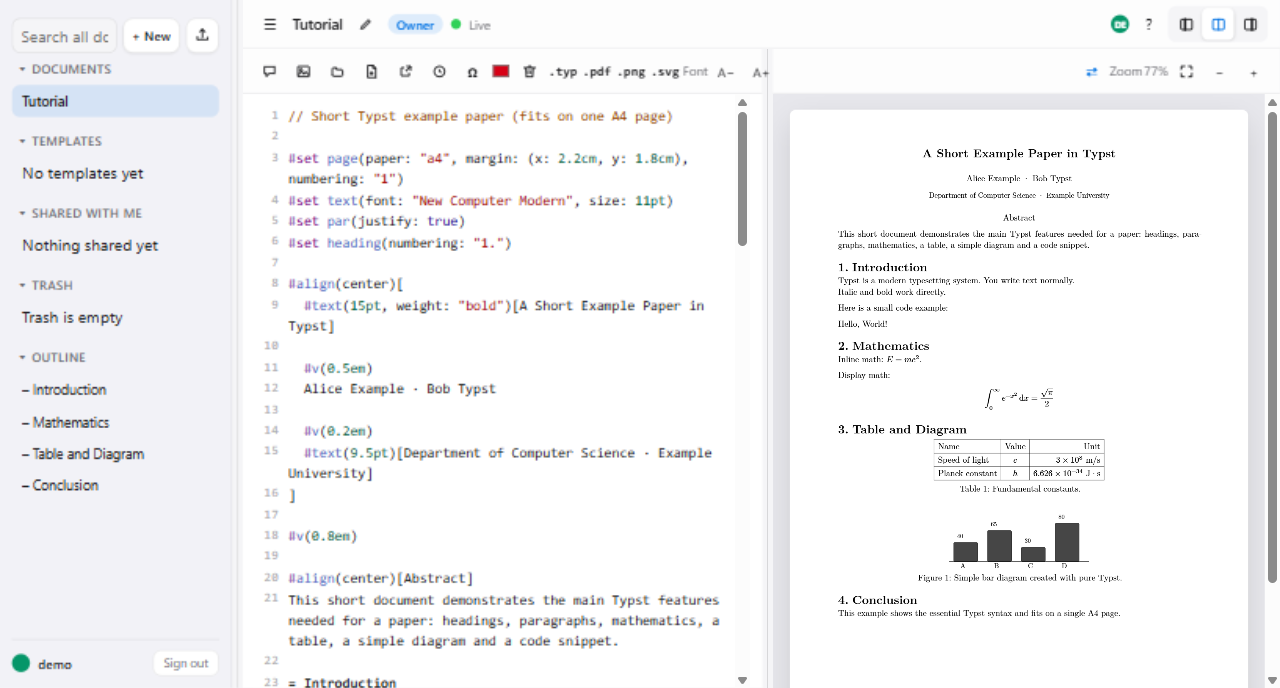
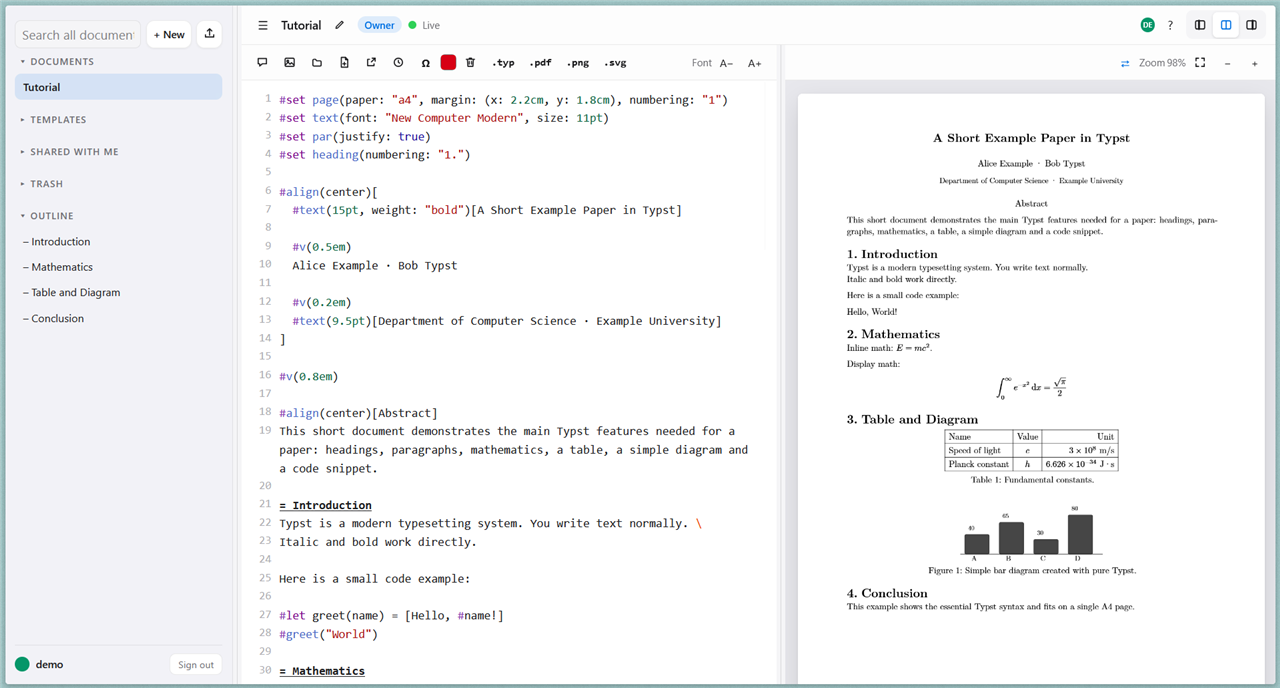
README shorter in llm-sdk style; sharper screenshot from high-DPI capture

diff --git a/README.md b/README.md
@@ -10,20 +10,18 @@ One process, clean API, boring on purpose. FastAPI serves the API, Yjs syncs the
 
 ## ✨ Features
 
-- Live PDF preview next to the editor, compiled in the browser via Typst WASM
+- Live PDF preview, compiled in the browser via Typst WASM
 - Realtime collaboration with presence over a cookie-only WebSocket
-- Owner, editor, and reviewer roles with share links and doc invites
+- Owner/editor/reviewer roles with share links and doc invites
 - Comment threads with anchors, @-mentions, replies, resolve
-- Outline, symbol picker, autocomplete + hover docs, find/replace
-- File uploads for `#image` and `#include`, 10 MB per file and 200 per doc
-- Templates saved per account, organized in folders, reused via `#include`
-- History with snapshots, diff view, and one-click restore
-- Folders, trash, duplicate, and global search across all docs
-- Export as `.typ`, PDF, SVG, first-page PNG, or all own docs as one `.zip`
-- Autosave (2.5 s debounce) + 24 h local stash, offline app shell via service worker
-- Editor font (10–24 px) + preview zoom (30–200 %) settings, avatars
-- Per-user quotas and per-endpoint rate limits enforced server-side
-- Self-hostable single container with SQLite, reverse-proxy ready
+- Outline, symbol picker, autocomplete, find/replace
+- File uploads for `#image` and `#include` (10 MB per file, 200 per doc)
+- Templates per account with folders, reused via `#include`
+- History with snapshots, diff view, one-click restore
+- Folders, trash, duplicate, global search
+- Export as `.typ`, PDF, SVG, first-page PNG, or all docs as one `.zip`
+- Autosave + 24 h local stash, offline app shell, font/zoom settings
+- Per-user quotas and per-endpoint rate limits, enforced server-side
 
 ## 🚀 Get Started
 
@@ -31,7 +29,7 @@ With Docker (under 5 minutes):
 
 ```bash
 cp .env.example .env
-mkdir -p data # Linux: chown 999:999 data; Windows: skip (entrypoint fixes a root-owned mount on first root start)
+mkdir -p data # Linux: chown 999:999 data
 docker compose up --build
 ```
 
@@ -50,45 +48,21 @@ Registration defaults to `invite-only`. The first account registers freely (boot
 
 ## ⚙ Configuration
 
-File plus env overrides; env wins. Defaults live in `backend/config.py`.
+File plus env overrides; env wins. Full list with defaults in `.env.example` (or `config.example.toml`); parsed and validated in `backend/config.py`.
 
 | ENV | Default | Notes |
 | --- | --- | --- |
-| `HOST` | `127.0.0.1` | Bare-metal bind address; in the container it is fixed to `0.0.0.0`. |
-| `PORT` | `8978` | HTTP port; in the container it is fixed to `8978`. |
-| `DATA_DIR` | `./data` | SQLite plus uploads; in the container it is fixed to `/app/data`. |
-| `COMPOSE_DATA_PATH` | `./data` | Compose-only host path for the volume, e.g. `/srv/typst-data`. |
-| `TRUST_PROXY` | `false` | Required `true` behind Caddy or nginx, else scheme and cookies break. |
-| `COOKIE_SECURE` | `auto` | `auto`, `true`, or `false`; keep `auto` behind a proxy. |
-| `REGISTRATION` | `invite-only` | `closed`, `invite-only`, or `open`; `open` for local tests only. |
-| `REGISTRATION_INVITE_TOKEN` | empty | Invite code for accounts after the first; set via `openssl rand -hex 32`. |
-| `SESSION_SECONDS` | `1209600` | Session lifetime in seconds (14 days). |
-| `MAX_DOCS_PER_USER` | `100` | Max docs per user. |
-| `MAX_BYTES_PER_USER` | `524288000` | Max storage bytes per user (500 MB). |
-| `MAX_FILES_PER_DOC` | `200` | Max files per doc. |
-| `RATE_LOGIN_PER_MIN` | `10` | Login attempts per minute. |
-| `RATE_REGISTER_PER_HOUR` | `20` | Registrations per hour. |
-| `RATE_JOIN_PER_MIN` | `30` | Invite redemptions per minute. |
-| `RATE_SEARCH_PER_MIN` | `60` | Searches per minute. |
-| `RATE_FILES_PER_MIN` | `20` | File up- and downloads per minute. |
-| `RATE_FILES_LIST_PER_MIN` | `120` | File list refreshes per minute. |
-| `RATE_SAVE_PER_MIN` | `30` | Doc saves per minute. |
-| `RATE_COMMENTS_PER_MIN` | `30` | Comment writes per minute. |
-| `RATE_EXPORT_PER_MIN` | `5` | ZIP exports per minute. |
-| `RATE_PW_PER_MIN` | `10` | Password changes per minute. |
-| `RATE_INVITE_PER_MIN` | `10` | Invite creations per minute. |
-| `RATE_SHARE_PER_MIN` | `10` | Share changes per minute. |
-| `RATE_SNAPSHOTS_PER_MIN` | `60` | Snapshot reads and writes per minute. |
-| `RATE_CREATE_PER_MIN` | `20` | Doc creations per minute. |
-| `RATE_DUPLICATE_PER_MIN` | `10` | Doc duplications per minute. |
-| `RATE_AVATAR_PER_MIN` | `10` | Avatar uploads per minute. |
-| `RATE_FOLDERS_PER_MIN` | `20` | Folder operations per minute. |
+| `DATA_DIR` | `./data` | SQLite plus uploads; `/app/data` in the container. Needs restart when changed. |
+| `COMPOSE_DATA_PATH` | `./data` | Compose-only host path, e.g. `/srv/typst-data`. |
+| `TRUST_PROXY` | `false` | Required `true` behind a proxy, else cookies break. Set only in `.env`. |
+| `REGISTRATION` | `invite-only` | `closed`, `invite-only`, or `open`. |
+| `REGISTRATION_INVITE_TOKEN` | empty | `openssl rand -hex 32`. |
+| `SESSION_SECONDS` | `1209600` | 14 days. |
+| `MAX_DOCS_PER_USER` | `100` | Plus 500 MB and 200 files per doc (see `backend/constants.py`). |
 
 Never commit local `config.toml` or `.env`; only the `.example` files are tracked.
 
-## 📡 Usage
-
-Health check:
+## 📡 API
 
 ```bash
 curl -s http://127.0.0.1:8978/healthz
@@ -96,46 +70,31 @@ curl -s http://127.0.0.1:8978/healthz
 
 Live sync runs over `WS /ws/{doc_id}`. Auth is cookie-only (`typst_session`, HttpOnly, SameSite=lax): API clients must store cookies, there is no token in body or URL.
 
-## 💾 Data, Backup & Security
-
-Data lives in `DATA_DIR` (`/app/data` in the container, host path via `COMPOSE_DATA_PATH`). It holds `app.db` (SQLite with WAL), `files/`, `backup/`, and `exports/`.
-
-Back up with:
+## 💾 Backup
 
 ```bash
 python scripts/backup.py --include-files
 ```
 
-This writes `DATA_DIR/backup/app-YYYYMMDD-HHMMSS.db` via `VACUUM INTO` plus a `files/` archive, keeping the newest 7. Run it hourly via cron or `docker compose exec app python scripts/backup.py --include-files`. Tune with `--keep N`, `--no-include-files` (DB only), or preview with `--dry-run`.
+Writes `DATA_DIR/backup/app-YYYYMMDD-HHMMSS.db` via `VACUUM INTO` plus a `files/` archive, keeps the newest 7 (`--keep N`, `--dry-run`). Run hourly via cron or `docker compose exec app python scripts/backup.py --include-files`. Backups are unencrypted: `gpg -c DATA_DIR/backup/app-*.db`.
 
-Restore: stop the server, copy the backup over `app.db`, delete `app.db-wal` and `app.db-shm`, unpack files with `tar -xzf DATA_DIR/backup/app-*-files.tar.gz -C DATA_DIR/`, then start. Never copy the live DB; WAL would be inconsistent. Verify with `PRAGMA integrity_check;` afterwards.
+Restore: stop the server, copy the backup over `app.db`, delete `app.db-wal`/`app.db-shm`, unpack files, start. Verify with `PRAGMA integrity_check;`.
 
-Backups are unencrypted. Encrypt them: `gpg -c DATA_DIR/backup/app-*.db`.
+## 🔌 Reverse proxy
 
-Behind a reverse proxy (nginx, Caddy), `TRUST_PROXY=true` is required; never expose the app directly, TLS is your responsibility. Minimal nginx example:
+`TRUST_PROXY=true` is required; never expose the app directly, TLS is your responsibility. Caddy:
 
-```nginx
-server {
-  listen 443 ssl;
-  server_name editor.example.com;
-  client_max_body_size 12M; # 10 MB upload + ZIP overhead
-  location / {
-    proxy_pass http://127.0.0.1:8978;
-    proxy_http_version 1.1;
-    proxy_set_header Host $host; # WS origin check compares Origin to Host
-    proxy_set_header Upgrade $http_upgrade;
-    proxy_set_header Connection "upgrade"; # WS needs this
-    proxy_set_header X-Forwarded-Proto $scheme;
-    proxy_set_header X-Forwarded-For $remote_addr; # overwrite, never append: else clients can spoof IPs past rate limits
-    proxy_read_timeout 86400; # idle WebSockets stay open (default 60s kills them)
-    proxy_buffering off; # live WS traffic, no buffering
-  }
+```
+typst.example.com {
+    reverse_proxy 127.0.0.1:8978
 }
 ```
 
-Always run one worker (`--workers 1`) and one replica: sync rooms live in process memory and split across workers. Minimum 512 MB RAM (`mem_limit: 512m`), 1 GB recommended. There is no public demo instance; self-host.
+nginx needs the same headers (`Host`, `Upgrade`, `X-Forwarded-Proto`, overwrite `X-Forwarded-For`, `proxy_read_timeout 86400`, `proxy_buffering off`, `client_max_body_size 12M`).
 
-Limits, openly: docs max 200_000 bytes each; uploads max 10 MB per file; history max 50 snapshots per doc with auto-snapshot at most every 15 min; doc invites valid 7 days and visible only once at creation; search needs min 2 chars and returns max 20 hits; quotas are 100 docs and 500 MB per user with 200 files per doc; rate limits per the table above.
+Always one worker (`--workers 1`) and one replica: rooms live in process memory. 512 MB RAM minimum, 1 GB recommended. No public demo instance; self-host.
+
+Limits, openly: docs 200 KB each; uploads 10 MB per file; 50 snapshots per doc, auto at most every 15 min; doc invites valid 7 days, shown once; search needs 2 chars, max 20 hits; quotas 100 docs and 500 MB per user, 200 files per doc; reads share the `files_list` bucket (120/min), writes have their own.
 
 ### 🔒 Security Contact
 
@@ -143,20 +102,16 @@ Report vulnerabilities via GitHub Private Vulnerability Reporting.
 Do not open public issues for security problems.
 Allow time for a fix before any disclosure.
 
-Unshare removes the user and wipes all pending invite links for the doc (they carry no username, so per-user revoke is impossible). Downgrading editor to reviewer wipes editor links too. Preview needs internet on first load (cdnjs/esm.sh/jsdelivr for pdf.js/Yjs/typst.ts); afterwards the service worker serves the app shell offline, but saving and syncing need network — offline edits survive at most 24h in the local stash (same-origin localStorage, user-owned drafts only).
-
-CSP intentionally allows `unsafe-inline`, `unsafe-eval`, `wasm-unsafe-eval` plus pinned cdnjs/esm.sh/jsdelivr origins: CodeMirror + Typst WASM cannot run without them. Mitigations: user content via `textContent` only, same-origin API/WS with Origin checks, backups outside web root.
-
-Backups are unencrypted. Encrypt them: `gpg -c DATA_DIR/backup/app-*.db` or `age -r <recipient> <file>`. Use `chmod 600` on shared hosts.
+Unshare wipes all pending invite links for the doc (they carry no username). Preview needs internet on first load (CDN: cdnjs/esm.sh/jsdelivr); afterwards the shell works offline, saving needs network (24 h local stash). CSP allows `unsafe-inline`/`unsafe-eval`/`wasm-unsafe-eval` plus pinned CDN origins — Typst WASM cannot run without them; user content is rendered via `textContent` only.
 
 ### 🛠 Troubleshooting
 
 - First load needs internet (CDN), then shell offline. Check `#cdnLine` / console.
-- Single worker only (`--workers 1`, one replica). Multi-worker exits on purpose.
-- Behind proxy set `TRUST_PROXY=true` in `.env`, else cookies/rate-limit break. Overwrite `X-Forwarded-For`, never append.
+- Single worker only (`--workers 1`, also as CLI flag). Multi-worker exits on purpose.
+- Behind proxy set `TRUST_PROXY=true`, overwrite `X-Forwarded-For`, never append.
 - Port `8978` loopback-only; TLS via proxy.
-- `DATA_DIR` change needs restart. Root-owned volume: entrypoint fixes top-level, retries recursive; else `chown -R 999:999 data`.
-- Many read `GET /api/*` share the `files_list` bucket (120/min) – search/snapshots/export have their own; 429 means slow down polling.
+- Root-owned volume: `chown -R 999:999 data`.
+- `429` on reads: the shared `files_list` bucket (120/min) — slow down polling.
 
 ### 📦 Changelog
 
@@ -170,19 +125,4 @@ If this saves you time, please ⭐ the repo! Thanks! ♥
 
 ## 📜 License
 
-Apache-2.0, see `LICENSE`.
-
-| Library | Version | License | Upstream |
-| --- | --- | --- | --- |
-| CodeMirror | 6.0.2 | MIT | https://www.npmjs.com/package/codemirror |
-| @codemirror/autocomplete | 6.20.3 | MIT | https://www.npmjs.com/package/@codemirror/autocomplete |
-| @codemirror/commands | 6.11.1 | MIT | https://www.npmjs.com/package/@codemirror/commands |
-| codemirror-lang-typst | 0.6.0 | Apache-2.0 | https://www.npmjs.com/package/codemirror-lang-typst |
-| Yjs | 13.6.27 | MIT | https://www.npmjs.com/package/yjs |
-| y-websocket | 1.5.0 | MIT | https://www.npmjs.com/package/y-websocket |
-| pdf.js | 3.11.174 | Apache-2.0 | https://www.npmjs.com/package/pdfjs-dist |
-| typst-all-in-one.ts | 0.7.0 | Apache-2.0 | https://www.npmjs.com/package/@myriaddreamin/typst-all-in-one.ts |
-| typst-ts-web-compiler | 0.7.0 | Apache-2.0 | https://www.npmjs.com/package/@myriaddreamin/typst-ts-web-compiler |
-| typst-ts-renderer | 0.7.0 | Apache-2.0 | https://www.npmjs.com/package/@myriaddreamin/typst-ts-renderer |
-
-Yjs/y-websocket/pdf.js/typst-* are pinned on purpose: the CDN imports and CSP entries assume exact versions.
+Apache-2.0, see `LICENSE`. Third-party versions and licenses in `NOTICE` (pins match the CDN imports and CSP entries).
